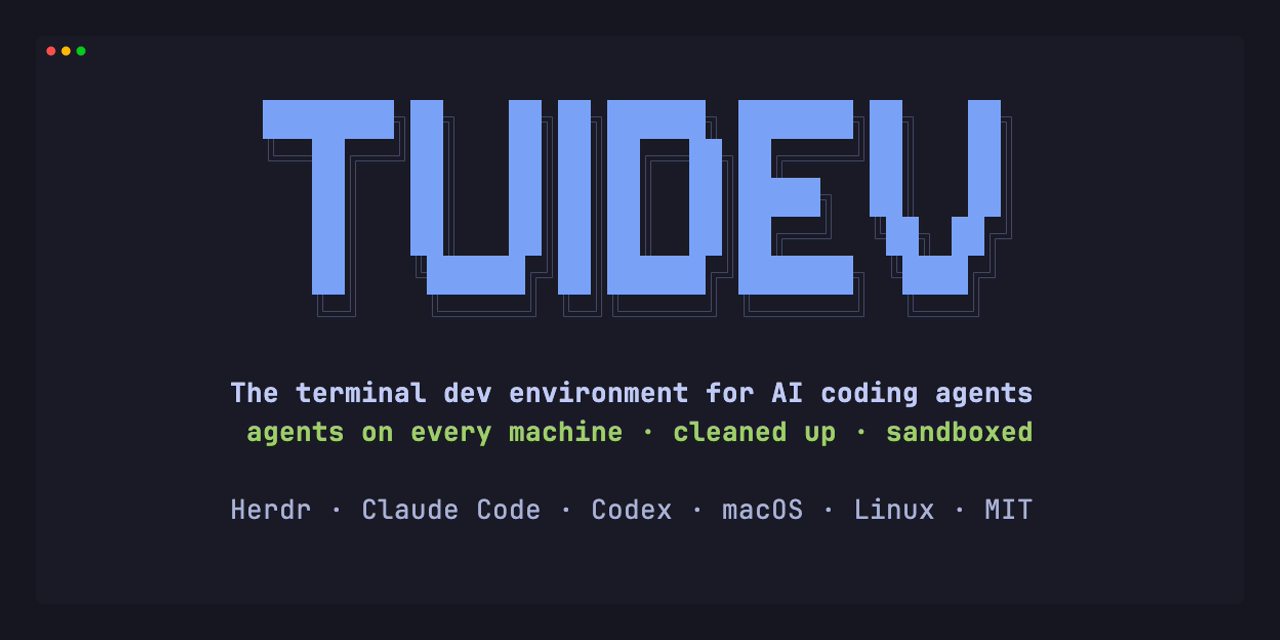
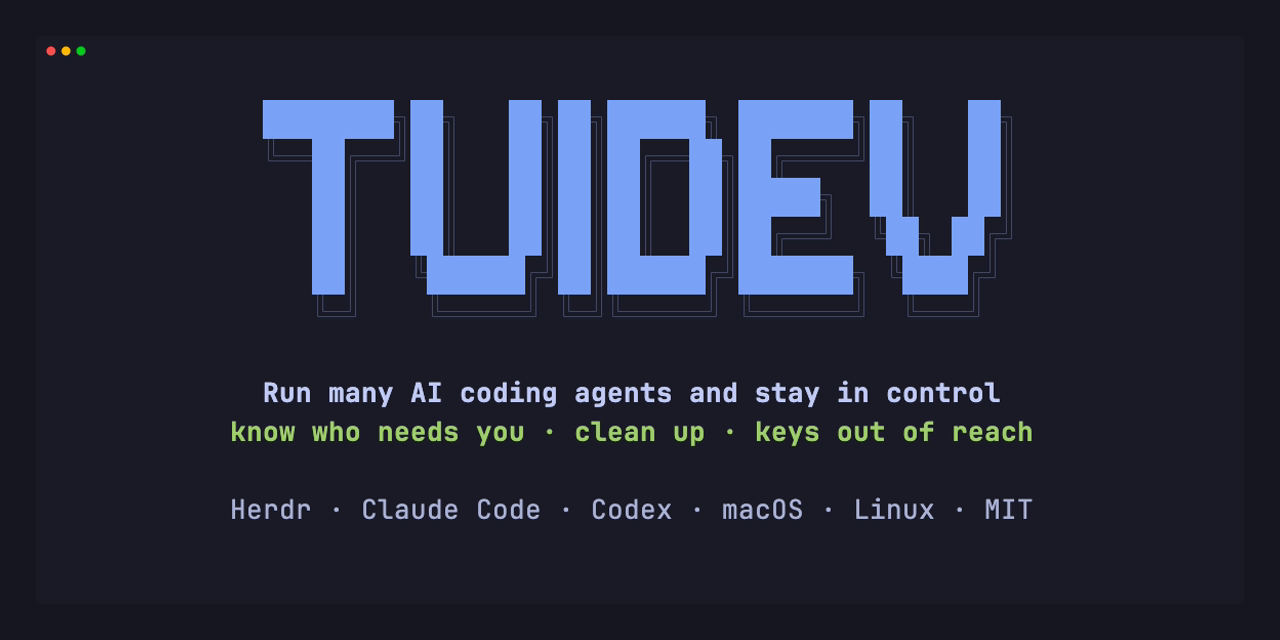
docs: README, section titles and the social card lead with the outcome

Changed region(s): [[0.1562, 0.5938, 0.8125, 0.7188]]

diff --git a/README.md b/README.md
@@ -1,6 +1,8 @@
 # tuidev
 
-**The terminal dev environment for AI coding agents: every machine you run agents on feels like one, you see what runs where at a glance, cleanup comes with evidence, and your tokens stay out of the agents' reach. Claude Code and Codex sandboxed by default, a modern shell, and an install you can undo.**
+**Run many AI coding agents, on more than one machine, and stay in control.**
+
+tuidev sets up your terminal for Claude Code and Codex so that you always know which agent needs you, a remote machine feels like the one you sit at, what sessions leave behind gets cleaned up, and your keys and tokens stay out of the agents' reach. macOS and Linux, one install you can preview and undo.
 
 [![CI](https://github.com/spfr/tuidev/actions/workflows/ci.yml/badge.svg)](https://github.com/spfr/tuidev/actions/workflows/ci.yml)
 [![Release](https://img.shields.io/github/v/release/spfr/tuidev?sort=semver)](https://github.com/spfr/tuidev/releases/latest)
@@ -20,18 +22,18 @@ You run Claude Code in one tab, Codex in another, and a long job on a Linux box 
 
 tuidev is shell scripts and configs for coding with AI agents from the terminal on macOS and Linux. Claude Code is the primary CLI and Codex the second: run them in a Ghostty tab and review the diff in VS Code or Cursor. It installs a small core, and everything else is an opt-in pack.
 
-- **[See what runs where](#see-what-runs-where):** Herdr's sidebar shows which agent needs you, here or on your always-on box, and every tab is named after what runs in it.
-- **[Remote feels local](#remote-feels-local):** Ctrl-click another machine's `localhost` and it opens in your browser; one map of what runs where, with one key to stop it there.
-- **[Cleanup with evidence](#cleanup-with-evidence):** `agents` finds what sessions left behind, says whether it is safe to stop and why, and shows where the CPU and the tokens went.
-- **[In your menu bar](#in-your-menu-bar):** on macOS, who needs you in about ten rows, with the rest one hover away.
-- **[Secrets agents don't inherit](#secrets-agents-dont-inherit):** `secret` keeps API tokens in the OS store and hands one to one command, instead of to everything your shell starts.
-- **[Sandboxed by default](#sandboxed-by-default):** Claude Code's and Codex's own sandboxes on, and `sbx` for everything else.
-- **[Quiet when nothing happens](#quiet-when-nothing-happens):** what tuidev runs in the background runs on events, not on a stopwatch.
-- **[Cool to the touch](#cool-to-the-touch):** on Apple Silicon MacBooks, fans that follow what your palms feel, not just what the chip can survive.
-- **[A modern shell in one command](#a-modern-shell-in-one-command):** Ghostty, zsh and the CLI tools you and your agents both reach for.
-- **[Subagents on the cheapest tier that works](#subagents-on-the-cheapest-tier-that-works)** and **[an install you can preview and undo](#an-install-you-can-preview-and-undo)**.
+- **[Know which agent needs you](#know-which-agent-needs-you).** One sidebar for every agent on every machine, with tabs named after the task, not `1 2 3`.
+- **[Work on another machine as if it were yours](#remote-feels-local).** Ctrl-click its `localhost` link and the page opens in your browser.
+- **[Stop what agents left behind](#stop-what-agents-left-behind).** Every leftover process comes with a verdict and its evidence, so you stop the right thing.
+- **[See it all from the menu bar](#see-it-all-from-the-menu-bar).** Who needs you, in a menu you read in two seconds.
+- **[Keep your tokens to yourself](#keep-your-tokens-to-yourself).** API tokens live in the OS secret store and reach one command, not every agent you start.
+- **[Agents can't read your keys](#agents-cant-read-your-keys).** Claude Code and Codex run sandboxed by default.
+- **[No background tax](#no-background-tax).** tuidev runs when something happens, not on a stopwatch.
+- **[A MacBook that stays cool](#a-macbook-that-stays-cool).** Fans that follow what your palms feel.
+- **[A modern shell in one command](#a-modern-shell-in-one-command).** Ghostty, zsh and the tools you and your agents both reach for.
+- **[Pay less for subagents](#pay-less-for-subagents)** and **[undo the install any time](#an-install-you-can-preview-and-undo)**.
 
-## See what runs where
+## Know which agent needs you
 
 `--pack herdr` installs [Herdr](https://herdr.dev/), an agent runtime: a server owns the panes, so agents keep running when you detach, and its sidebar marks each one `working`, `blocked`, `done` or `idle`. Save an always-on box once with `herdr machine add workbox`, and its agents join the same sidebar, so you see which agent needs you, on which machine, and jump straight to it. The box is a Raspberry Pi, a NUC or a VM set up with `--profile remote`, and its agents keep working while your laptop sleeps.
 
@@ -51,7 +53,7 @@ Press **prefix+m** for the map: one list of what runs where, on every machine, w
 
 <sub>This Mac and two Linux containers saved as SSH machines, `atlas` and `kepler`. The sessions are scripted stand-ins; the tunnel, the browser page, the stop and the fetched file are real. Recorded with `docs/assets/tapes/remote.tape` on the fleet `remote-demo.sh` starts ([how](docs/assets/tapes/README.md#the-remote-screencasts-fleet)).</sub>
 
-## Cleanup with evidence
+## Stop what agents left behind
 
 Every `claude` session starts its own MCP servers, and its subagents start test runs, dev servers and polling loops. When a session crashes, or a subagent hands back its report, some of that keeps running. `agents` (`--pack monitoring`) lists each session with what it runs, flags what was left behind, and gives every flagged process a verdict with its evidence, so you stop the right thing and leave the rest.
 
@@ -66,7 +68,7 @@ Every `claude` session starts its own MCP servers, and its subagents start test 
 
 Also: `agents show`, `jump` and `pick` for one process and the pane it runs in; [MCP servers started on their first tool call](docs/agent-workflows.md#start-a-server-on-its-first-tool-call-agents-mcp-lazy); [CPU by job](docs/agent-workflows.md#where-the-cpu-goes-job-types) and [insights with what to change](docs/agent-workflows.md#reading-the-insights); [how long agents wait on you](docs/agent-workflows.md#waits-how-long-agents-wait-on-you); every CLI's [usage limits](docs/agent-workflows.md#usage-limits-agents-limits) on a gauge. [Local processes: `agents`](docs/agent-workflows.md#local-processes-agents---pack-monitoring)
 
-## In your menu bar
+## See it all from the menu bar
 
 On macOS, the same pack adds a [SwiftBar](https://swiftbar.app) menu that answers one question first: who needs you? The title counts only the sessions that are blocked and the ones to review, and shows a plain icon when nothing needs you.
 
@@ -81,7 +83,7 @@ The Machines row asks your other machines what runs there only when you open the
 
 <sub>The plugin's actual output over the demo fixtures, drawn as a macOS menu by `scripts/render_menu.sh`; it is not a screenshot of a real menu bar. [More submenus, animated](docs/assets/menu.gif).</sub>
 
-## Secrets agents don't inherit
+## Keep your tokens to yourself
 
 A token you export in `.zshrc` is in the environment of every program your shell starts: every agent you launch, every command it runs, every MCP server and install script. One `env` in a tool call and it is in a transcript.
 
@@ -96,7 +98,7 @@ secret run -n GITHUB_TOKEN -- ./release.sh  # in that command's environment, and
 
 The stores are on the sandbox's credential list, so a command under `sbx` can't read them, and Claude Code's shipped settings refuse `secret get`, `export` and `run` and the Keychain's own read commands. Codex's sandbox does not limit reads, so near tokens that matter, run it under `sbx`. It is not a team secret manager: for shared or deployed secrets, use the tool your team already has. What each sandbox stops, store by store, and how to check it on your machine: [Secrets](docs/secrets.md#what-an-agent-can-reach)
 
-## Sandboxed by default
+## Agents can't read your keys
 
 `--pack ai-clis` turns on Claude Code's and Codex's own sandboxes, so plain `claude` and `codex` run confined without a wrapper, and gates git and gh writes behind a prompt. Claude Code's Bash and `Read` tools are denied `~/.ssh`, `~/.aws` and the other 31 paths on one [credential list](configs/sandbox/credential-paths.txt). Codex's sandbox limits writes and network but not reads, so for anything else `sbx` runs a command under a macOS Seatbelt profile that denies the same list. A contract test keeps every copy of the list in step, and the secret stores are on it. And `--pack release-age` (in `--profile full`) keeps hijacked releases off the machine in the first place: npm, bun and uv wait 3 days before installing a new version, long enough for a compromised one like LiteLLM 1.107.0 to be pulled, while lockfiles still install as pinned. [Sandboxing](docs/sandboxing.md)
 
@@ -104,7 +106,7 @@ The stores are on the sandbox's credential list, so a command under `sbx` can't 
 
 <sub>Without a sandbox, any command an agent runs can read your keys. Under `sbx` (strict profile), the same read is refused, so are the other credentials and writes outside the project, and the project's own work still runs. Demo home with made-up files.</sub>
 
-## Quiet when nothing happens
+## No background tax
 
 Something that watches your agents should not be what heats your laptop. Everything tuidev runs without being asked now runs when something happens:
 
@@ -117,7 +119,7 @@ Something that watches your agents should not be what heats your laptop. Everyth
 
 Your other machines are asked what runs there only when you open the menu or the map. Every background job, its trigger and its off switch: [what tuidev runs in the background](docs/performance.md#what-tuidev-runs-in-the-background)
 
-## Cool to the touch
+## A MacBook that stays cool
 
 Agents keep a MacBook's chip at 75–85 °C for hours while macOS keeps the fans near their minimum, so the palm rest takes the heat. `--pack cooling` adds the fan curve macOS leaves out: a small Swift daemon you build from the repo ([`lib/fan/tuidev-fan.swift`](lib/fan/tuidev-fan.swift), one readable file, no network) follows the chip's temperature averaged over minutes, only ever adds air to what macOS runs, and hands the fans back on any error, exit or sleep. Pick Cool, Balanced or Quiet in the menu or with `agents cool`. [Fans](docs/agent-workflows.md#fans---pack-cooling)
 
@@ -140,7 +142,7 @@ Agents keep a MacBook's chip at 75–85 °C for hours while macOS keeps the fans
 
 These are in core, apart from the `ci` pack. The extras (`--extras`) add `lazygit`, `xh`, `hyperfine`, `procs`, `dust`, `tealdeer`, `tokei`, `uv` and `atuin`, and whatever your package manager lacks is skipped. Every tool, what it replaces, why, and how an agent comes to use it is in [the toolbox](docs/toolbox.md); `make perf` checks what the OS does behind your agents (package stores in the Spotlight index or in backups, file limits, Low Power Mode, inotify on Linux), fixes what is safe and names the rest. `make disk` shows what your tools and agents have left on disk (caches, old runtimes, stale build trees and worktrees), explains each one, and only ever runs a tool's own cleanup command, one yes at a time: [performance](docs/performance.md).
 
-## Subagents on the cheapest tier that works
+## Pay less for subagents
 
 `--pack orchestration` pins Claude Code's subagents to tiers: Haiku for `Explore` and `executor` (search and command runs), Sonnet for `implementor-standard`, Opus for `implementor-complex` and `reviewer`. Codex gets the same roles in `~/.codex/agents`, without `Explore`. A `delegation` skill runs implementors in parallel git worktrees and brings their work back. It installs on its own, without the rest of tuidev. [Orchestration](docs/orchestration.md)
 

diff --git a/CHANGELOG.md b/CHANGELOG.md
@@ -9,7 +9,7 @@ and this project adheres to [Semantic Versioning](https://semver.org/spec/v2.0.0
 
 ### Changed
 
-- **The README tells the 3.22 story in the order you meet the problems.** New sections "See what runs where" (Herdr's tab names and sidebar rows), "Secrets agents don't inherit" and "Quiet when nothing happens" (what changed in the background, as a table); Remote, Cleanup, the menu bar and Cool to the touch are a screen each, with their detail in the owning docs.
+- **The README tells the 3.22 story in the order you meet the problems.** It opens with the outcome ("Run many AI coding agents, on more than one machine, and stay in control"), and every section title says what you get: "Know which agent needs you" (Herdr's tab names and sidebar rows), "Keep your tokens to yourself", "No background tax" (what changed in the background, as a table). Remote, cleanup, the menu bar and the fans are a screen each, with their detail in the owning docs. The social card says the same.
 - **New pictures.** The Herdr GIF runs tuidev on all three demo machines, so it shows named tabs, each workspace's branch and roll-up, a red `blocked` and since when an agent waits; the menu picture is the glance menu.
 - **Docs.** [performance.md](docs/performance.md#what-tuidev-runs-in-the-background) lists everything tuidev runs in the background, with its trigger, how often and its off switch; [remote.md](docs/remote.md#remote-feels-local-ports-links-and-files) adds "Use just this", "What leaves my machine" and "When another tool is better", and every key of the map; [secrets.md](docs/secrets.md#when-to-use-something-else) says when another tool is the better choice; one table of the marks by kind of session; three FAQ entries; `SECURITY.md` describes `secret` and the link watcher's trust model.
 
